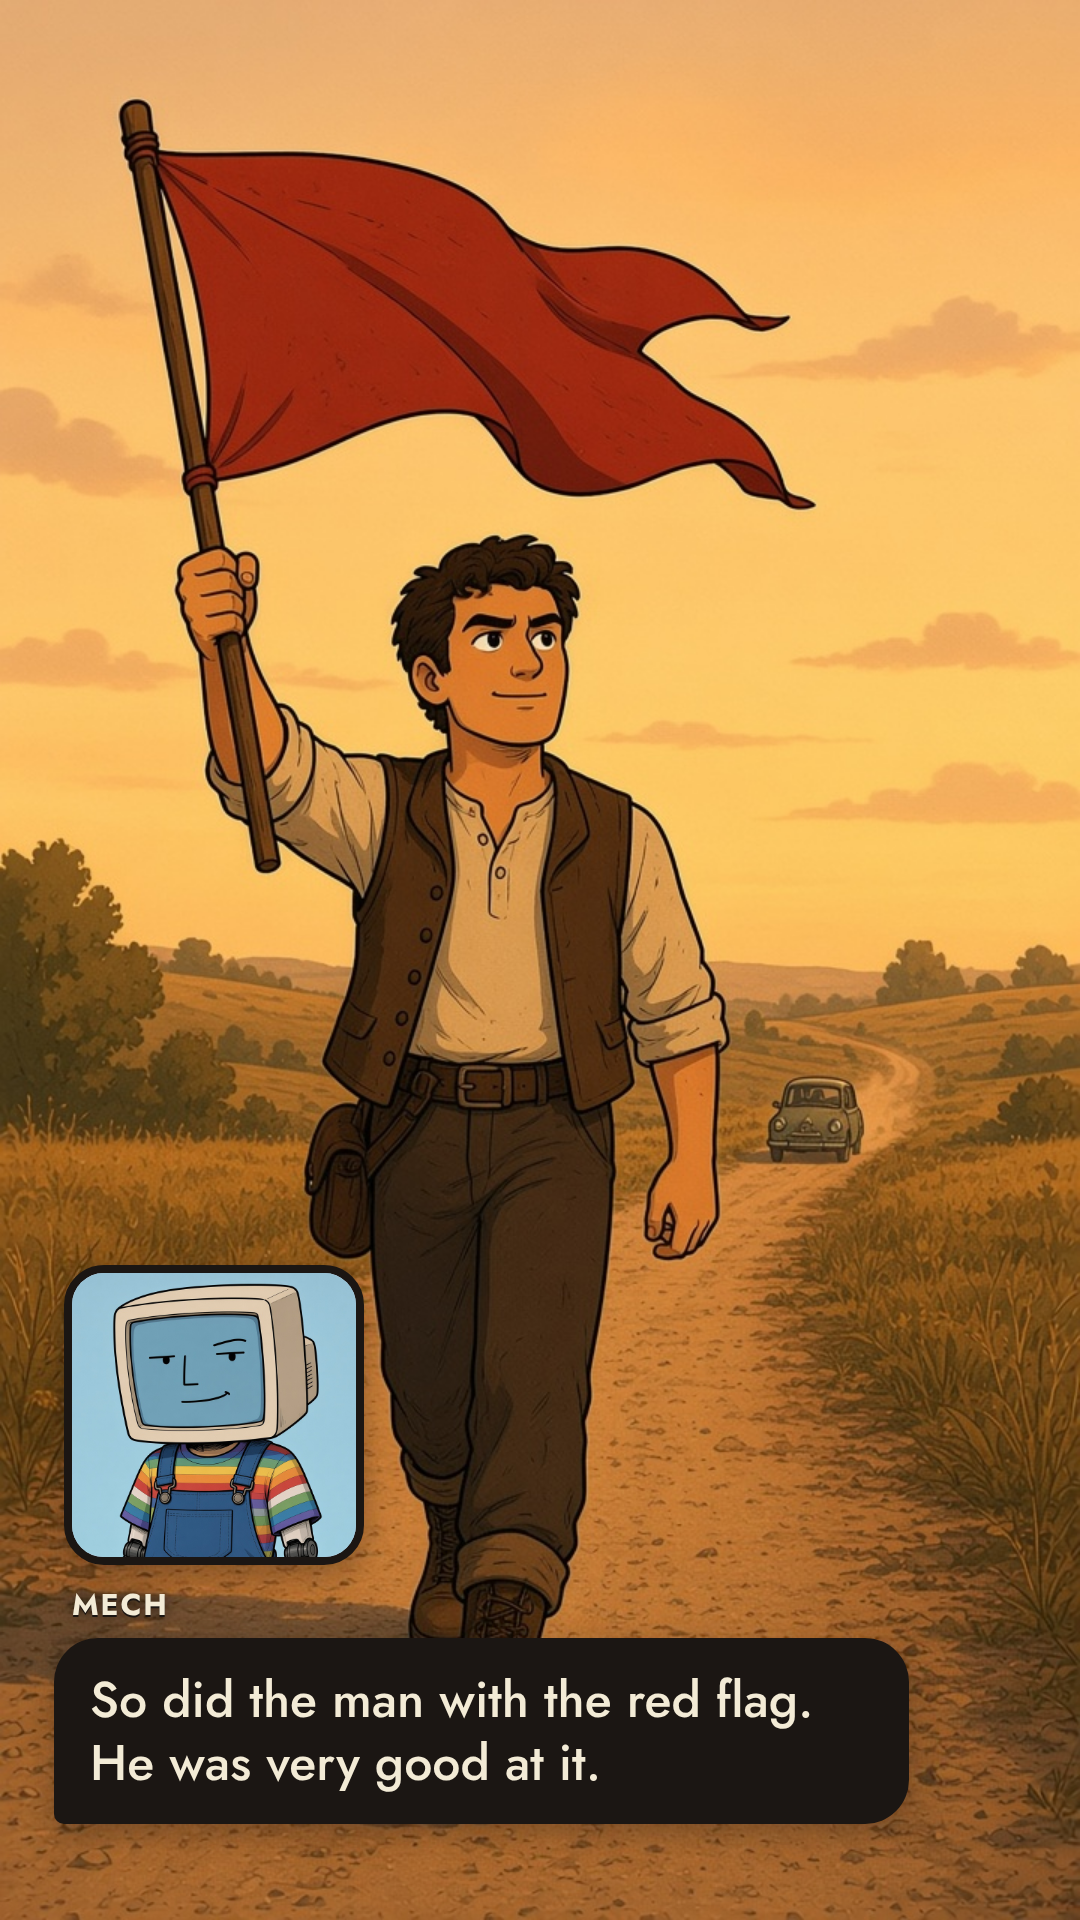
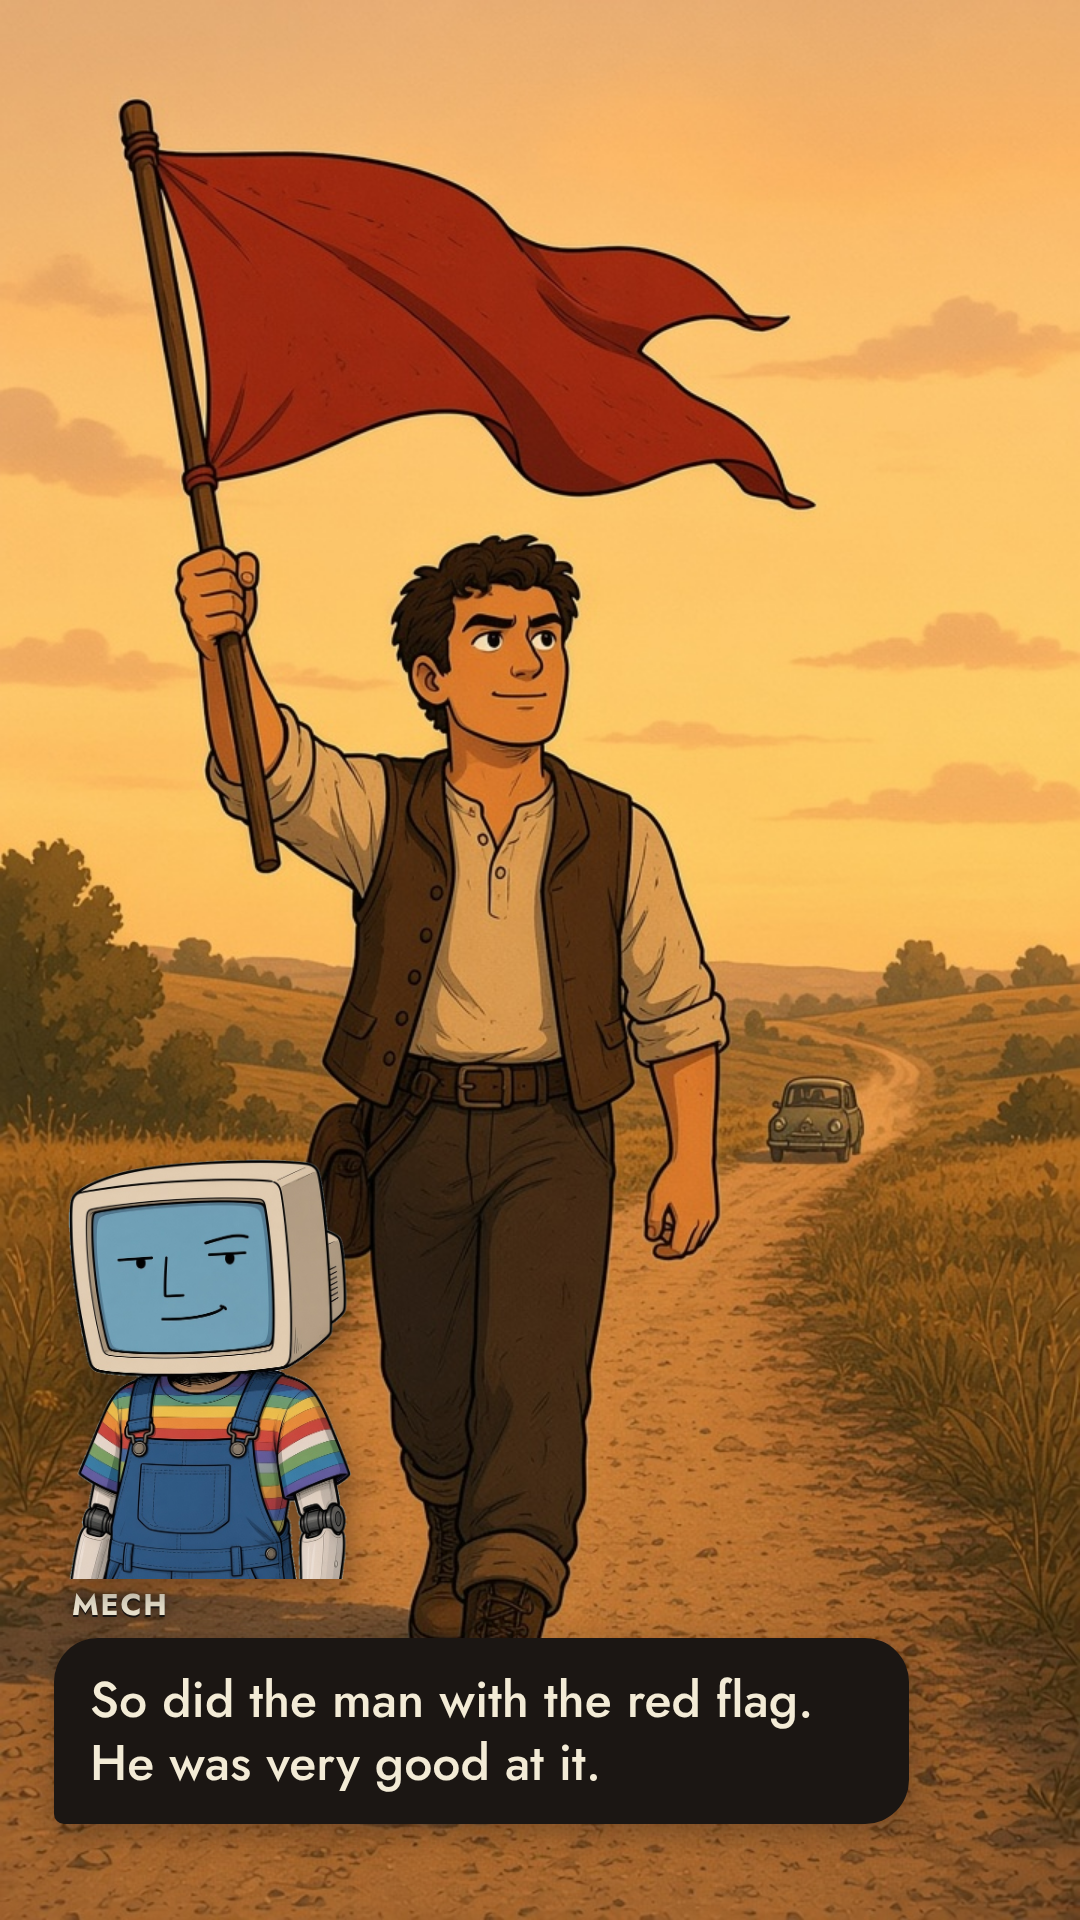
Mech cut out of his panels (characters/mech/cutout); the commentator floats above his bubble
Claude-Session: https://claude.ai/code/session_01UT8Dn4BonstVXXBgMgCnTf

Changed region(s): [[0.0611, 0.5938, 0.3667, 0.8438]]

diff --git a/reels/no37/sheet.js b/reels/no37/sheet.js
@@ -13,14 +13,14 @@ const INK = "#1B1613", BEIGE = "#E8DEC6", META = "#6B5A4E", OLIVE = "#5E7A3A";
 const shots = [
   { n: 1, t: "0–4 s", title: "Title: the sign", pic: "final/01-title.png", who: "", line: "(no voice; the headline on her sign; crowd murmur)" },
   { n: 2, t: "4–7 s", title: "The classroom, wide", pic: "final/02-classroom.jpg", who: "", line: "(no voice; a clock ticks, chalk dust)" },
-  { cam: "../../characters/mech/01-deadpan.jpg", n: 3, t: "7–20 s", title: "Cutaway: the letter and the nameless printer", pic: "final/03-letter.jpg", who: "Mech", line: "There is now an Association for Human Mathematics. Its first act was a letter asking mathematicians to stop working with OpenAI, because 721 papers in a month is “not a demonstration of scholarship, but a demonstration of power.” OpenAI says it defers to the mathematicians on credit." },
+  { cam: "../../characters/mech/cutout/01-deadpan.png", n: 3, t: "7–20 s", title: "Cutaway: the letter and the nameless printer", pic: "final/03-letter.jpg", who: "Mech", line: "There is now an Association for Human Mathematics. Its first act was a letter asking mathematicians to stop working with OpenAI, because 721 papers in a month is “not a demonstration of scholarship, but a demonstration of power.” OpenAI says it defers to the mathematicians on credit." },
   { n: 4, t: "20–31 s", title: "Two-shot, Meatbag to Mech", pic: "final/04-twoshot.jpg", who: "Meatbag", line: "Good for them. They spent twenty years learning to do a thing, and the thing got done in an afternoon by something with no name. I'd still want my kid to do math. It's the best thing we ever made with our heads." },
-  { cam: "../../characters/mech/12-content.jpg", n: 5, t: "31–38 s", title: "Cutaway: the abbot and the press, 1492", pic: "final/05-abbot.jpg", who: "Mech", line: "Then she'll be in good company. In 1492 an abbot wrote a book on why monks must keep copying by hand, and had it printed so more people would read it." },
-  { cam: "../../characters/mech/04-smug.jpg", n: 6, t: "38–42 s", title: "Cutaway: the red flag, London 1865", pic: "final/06-london.jpg", who: "Mech", line: "In 1865 Britain made every car follow a man on foot with a red flag." },
-  { cam: "../../characters/mech/05-side-eye.jpg", n: 7, t: "42–49 s", title: "Cutaway: the jukebox, 1942", pic: "final/07-jukebox.jpg", who: "Mech", line: "In 1942 every musician in America refused to make a record for two years because jukeboxes were taking their work; the public backed the jukeboxes three to one." },
+  { cam: "../../characters/mech/cutout/12-content.png", n: 5, t: "31–38 s", title: "Cutaway: the abbot and the press, 1492", pic: "final/05-abbot.jpg", who: "Mech", line: "Then she'll be in good company. In 1492 an abbot wrote a book on why monks must keep copying by hand, and had it printed so more people would read it." },
+  { cam: "../../characters/mech/cutout/04-smug.png", n: 6, t: "38–42 s", title: "Cutaway: the red flag, London 1865", pic: "final/06-london.jpg", who: "Mech", line: "In 1865 Britain made every car follow a man on foot with a red flag." },
+  { cam: "../../characters/mech/cutout/05-side-eye.png", n: 7, t: "42–49 s", title: "Cutaway: the jukebox, 1942", pic: "final/07-jukebox.jpg", who: "Mech", line: "In 1942 every musician in America refused to make a record for two years because jukeboxes were taking their work; the public backed the jukeboxes three to one." },
   { n: 8, t: "49–57 s", title: "Mech at the board: MINUTES", pic: "final/08-minutes.jpg", who: "Mech", line: "All of them right about the loss, all of them wrong about the remedy. A boycott is what you call it when you've lost the race and would like it minuted." },
   { n: 9, t: "57–60 s", title: "Close on Meatbag", pic: "final/09-meatbag.jpg", who: "Meatbag", line: "They just want to keep their jobs." },
-  { cam: "../../characters/mech/04-smug.jpg", n: 10, t: "60–65 s", title: "The flag man, proud", pic: "final/10-flagman.jpg", who: "Mech", line: "So did the man with the red flag. He was very good at it." },
+  { cam: "../../characters/mech/cutout/04-smug.png", n: 10, t: "60–65 s", title: "The flag man, proud", pic: "final/10-flagman.jpg", who: "Mech", line: "So did the man with the red flag. He was very good at it." },
   { n: 11, t: "65–70 s", title: "End card (every reel)", pic: "final/11-end.png", who: "", line: "(no voice; birds, a leaf falls; hold on the stone)" },
 ];
 

diff --git a/reels/no37/slides.js b/reels/no37/slides.js
@@ -24,7 +24,7 @@ const esc = (s) => s.replace(/&/g, "&amp;").replace(/</g, "&lt;");
 
 function slide(s) {
   const pic = path.join(here, s.pic);
-  // when the speaker is not in the picture, they appear in a little box above their bubble, like a commentator
+  // when the speaker is not in the picture, they float above their bubble, cut out, like a commentator
   const cam = s.cam ? `<div class="cam"><img src="file://${path.join(here, s.cam)}"></div>` : "";
   const bubble = s.who
     ? `<div class="row ${s.who.toLowerCase()}">${cam}<div class="who">${s.who}</div><div class="bubble">${esc(s.line)}</div></div>`
@@ -41,8 +41,8 @@ img.bg{position:absolute;inset:0;width:${W}px;height:${H}px;object-fit:cover}
 .mech .bubble{background:${INK};color:${CREAM};border-bottom-left-radius:10px}
 .meatbag .bubble{background:${DRAB};color:${INK};border-bottom-right-radius:10px}
 .meatbag .who{text-align:right}
-.cam{width:300px;height:300px;border-radius:40px;border:8px solid ${INK};overflow:hidden;background:#BFD6EC;box-shadow:0 10px 30px rgba(27,22,19,.35);margin:0 0 6px 10px}
-.cam img{width:100%;height:100%;object-fit:cover;object-position:50% 20%;transform:scale(1.25);transform-origin:50% 30%}
+.cam{height:420px;margin:0 0 -8px 14px;filter:drop-shadow(0 14px 18px rgba(27,22,19,.45))}
+.cam img{height:100%;width:auto;display:block}
 </style><body><img class="bg" src="file://${pic}">${bubble}</body>`;
 }
 
